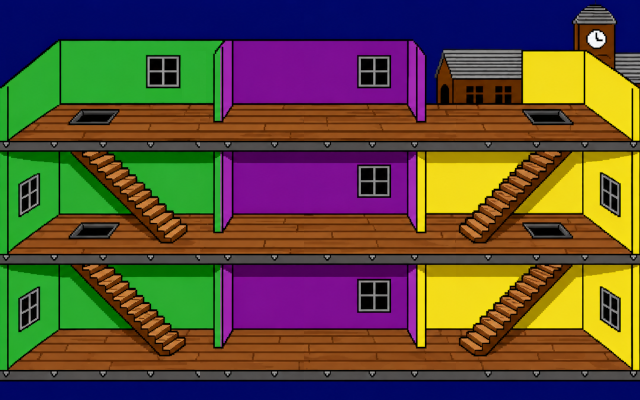
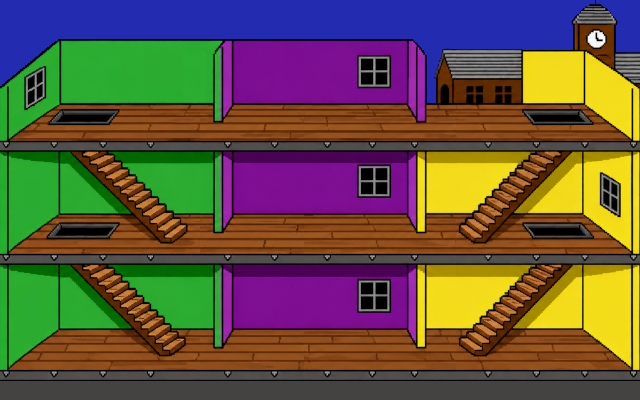
fix: updated bg and canvas

diff --git a/css/style.css b/css/style.css
@@ -71,8 +71,8 @@ canvas {
   position: absolute; bottom: 0; left: 0; right: 0;
   /*background: rgba(16,16,93,1.0);*/ color: #fffc; 
   text-transform: uppercase; text-shadow: 1px 1px 1px rgba(0, 0, 0, 0.8);
-  font-size: clamp(9px,0vw,9px); padding: 2px 8px;
-  height: 14px; text-align: center; letter-spacing: 0px;
+  font-size: clamp(10px,0vw,10px); padding: 4px 8px;
+  height: 19px; text-align: center; letter-spacing: 0px;
   /*border-top: 1px solid #352879;*/
   white-space: nowrap; overflow: hidden; text-overflow: ellipsis;
   pointer-events: none;